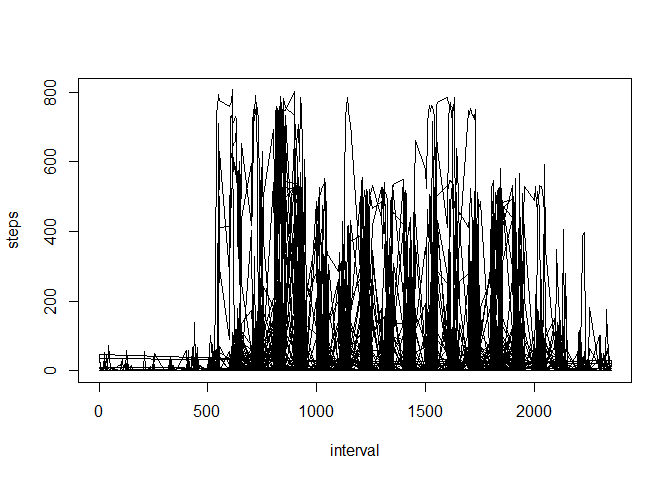
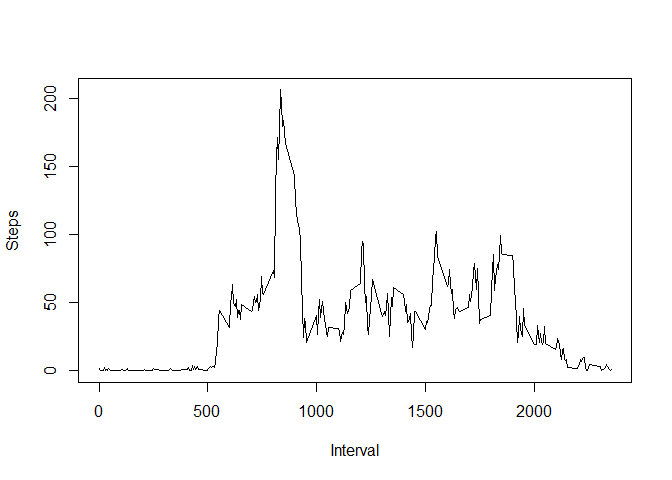
Section four - draft
Programming the imputed values

diff --git a/PA1_template.html b/PA1_template.html
@@ -123,14 +123,53 @@ meanDaily</code></pre>
 </div>
 <div id="what-is-the-average-daily-activity-pattern" class="section level2">
 <h2>What is the average daily activity pattern?</h2>
-<pre class="r"><code>with(allDF, {
-        plot(interval, steps, type = &quot;l&quot;)
+<pre class="r"><code>dailyMean &lt;- allDF %&gt;%
+        group_by(interval) %&gt;%
+        summarise(average = mean(steps, na.rm = TRUE))
+
+head(dailyMean)</code></pre>
+<pre><code>## Source: local data frame [6 x 2]
+## 
+##   interval   average
+## 1        0 1.7169811
+## 2        5 0.3396226
+## 3       10 0.1320755
+## 4       15 0.1509434
+## 5       20 0.0754717
+## 6       25 2.0943396</code></pre>
+<pre class="r"><code>tail(dailyMean)</code></pre>
+<pre><code>## Source: local data frame [6 x 2]
+## 
+##   interval   average
+## 1     2330 2.6037736
+## 2     2335 4.6981132
+## 3     2340 3.3018868
+## 4     2345 0.6415094
+## 5     2350 0.2264151
+## 6     2355 1.0754717</code></pre>
+<pre class="r"><code>with(dailyMean, {
+        plot(x = interval,
+             y = average,
+             type = &quot;l&quot;,
+             xlab = &quot;Interval&quot;,
+             ylab = &quot;Steps&quot;
+        )
 } )</code></pre>
[1 lines of base64/hex data omitted]
-<pre class="r"><code>#             #xlab = &quot;&quot;, ylab = &quot;Global Active Power (kilowatts)&quot;</code></pre>
[1 lines of base64/hex data omitted]
 </div>
 <div id="imputing-missing-values" class="section level2">
 <h2>Imputing missing values</h2>
+<pre class="r"><code>imputedDF &lt;- allDF
+sum(is.na(imputedDF$steps))</code></pre>
+<pre><code>## [1] 2304</code></pre>
+<pre class="r"><code>for(i in seq(from = 0, to = 2355, by = 5)) {
+        imputedDF$steps[is.na(imputedDF$steps) &amp; imputedDF$interval == i] &lt;- 0
+        #if(imputedDF[is.na(imputedDF$steps),]
+}
+i</code></pre>
+<pre><code>## [1] 2355</code></pre>
+<pre class="r"><code>sum(is.na(imputedDF$steps))</code></pre>
+<pre><code>## [1] 0</code></pre>
 </div>
 <div id="are-there-differences-in-activity-patterns-between-weekdays-and-weekends" class="section level2">
 <h2>Are there differences in activity patterns between weekdays and weekends?</h2>

diff --git a/PA1_template.md b/PA1_template.md
@@ -104,20 +104,85 @@ abline(v = meanDaily, col = "blue", lwd = 2)
 ## What is the average daily activity pattern?
 
 ```r
-with(allDF, {
-        plot(interval, steps, type = "l")
+dailyMean <- allDF %>%
+        group_by(interval) %>%
+        summarise(average = mean(steps, na.rm = TRUE))
+
+head(dailyMean)
+```
+
+```
+## Source: local data frame [6 x 2]
+## 
+##   interval   average
+## 1        0 1.7169811
+## 2        5 0.3396226
+## 3       10 0.1320755
+## 4       15 0.1509434
+## 5       20 0.0754717
+## 6       25 2.0943396
+```
+
+```r
+tail(dailyMean)
+```
+
+```
+## Source: local data frame [6 x 2]
+## 
+##   interval   average
+## 1     2330 2.6037736
+## 2     2335 4.6981132
+## 3     2340 3.3018868
+## 4     2345 0.6415094
+## 5     2350 0.2264151
+## 6     2355 1.0754717
+```
+
+```r
+with(dailyMean, {
+        plot(x = interval,
+             y = average,
+             type = "l",
+             xlab = "Interval",
+             ylab = "Steps"
+        )
 } )
 ```
 
 ![](PA1_template_files/figure-html/unnamed-chunk-5-1.png) 
 
-```r
-#             #xlab = "", ylab = "Global Active Power (kilowatts)"
-```
-
 
 ## Imputing missing values
 
+```r
+imputedDF <- allDF
+sum(is.na(imputedDF$steps))
+```
+
+```
+## [1] 2304
+```
+
+```r
+for(i in seq(from = 0, to = 2355, by = 5)) {
+        imputedDF$steps[is.na(imputedDF$steps) & imputedDF$interval == i] <- 0
+        #if(imputedDF[is.na(imputedDF$steps),]
+}
+i
+```
+
+```
+## [1] 2355
+```
+
+```r
+sum(is.na(imputedDF$steps))
+```
+
+```
+## [1] 0
+```
 
 
 ## Are there differences in activity patterns between weekdays and weekends?
